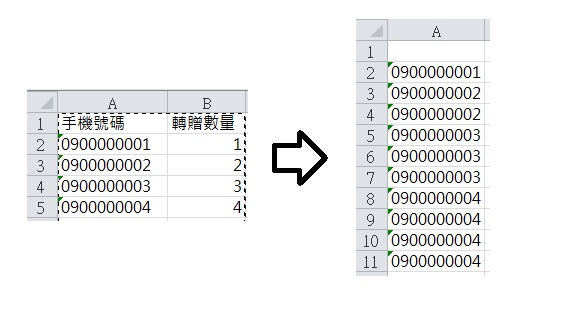
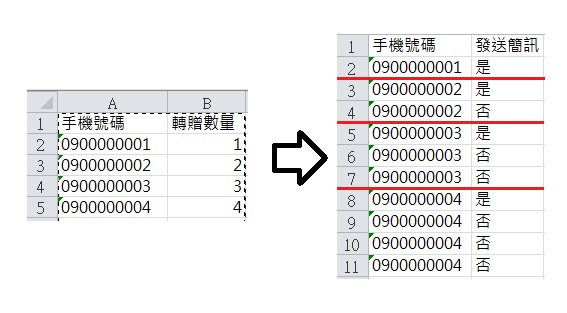
增修:批次轉贈excel轉換工具-增加發送簡訊欄位

Changed region(s): [[0.5697, 0.0575, 0.9594, 0.8914]]

diff --git a/excelreturn.html b/excelreturn.html
@@ -21,7 +21,7 @@
 <body>
   <div id="myapp" class="container">
     <div class="row">
-      <h3 class="col-12 text-center">excel格式轉換</h3>
+      <h3 class="col-12 text-center">批次轉贈excel格式轉換</h3>
       <div class="col-6">
         <img src="./img/excel反樞紐-說明圖.jpg" class="mx-auto">
       </div>
@@ -30,9 +30,8 @@
           <li>功能參考左圖</li>
           <li>先複製原始資料，貼到左側</li>
           <li>點擊 轉換</li>
-          <li>看到右側有資料了</li>
-          <li>點擊 複製結果</li>
-          <li>在excel檔案中 貼上</li>
+          <li>看到右側有資料了，點擊 複製結果</li>
+          <li>在excel檔案中 貼上<br><span class="text-secondary">( 儲存格格式要是「文字」手機號碼才不會跑掉 )</span></li>
         </ol>
       </div>
     </div>
@@ -64,14 +63,18 @@
       },
       methods: {
         go() {
-          this.outtxt = '';
+          this.outtxt = '手機號碼\t發送簡訊';
           let n = this.intxt.split('\n');
           let regex = /\D/; // 正規表示:不是純數字 為 true
           n.forEach(element => {
             let m = element.split('\t');
             if ( !regex.test(m[1]) ) {
               for (var i = 0; i < parseInt(m[1],10); i++) {
-                this.outtxt = this.outtxt + '\n' + m[0];
+                if (i == 0) {
+                  this.outtxt = this.outtxt + '\n' + m[0] + '\t是';
+                } else {
+                  this.outtxt = this.outtxt + '\n' + m[0] + '\t否';
+                }
               }
             }
           });
